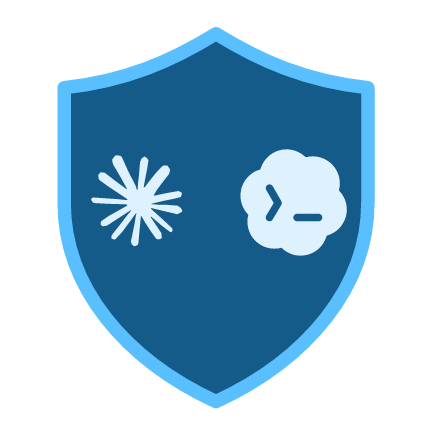
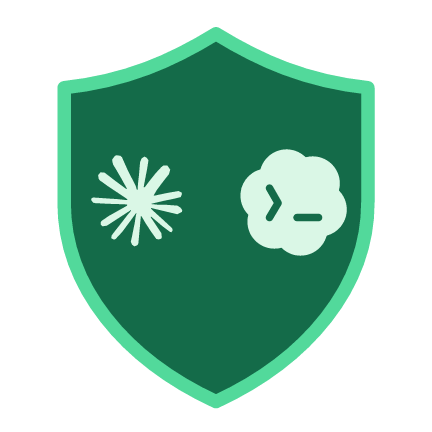
style: use the selected green shield palette [skip ci]

diff --git a/test/tool/generate_app_icon_test.dart b/test/tool/generate_app_icon_test.dart
@@ -77,7 +77,7 @@ Future<void> main() async {
       expect(source, isNot(contains('linearGradient')));
       expect(
         RegExp(r'#[0-9a-fA-F]{6}').allMatches(source).map((m) => m.group(0)),
-        everyElement(isIn(['#155B8A', '#59BFFF', '#DDF1FF', '#0B0B0B'])),
+        everyElement(isIn(['#146B49', '#52D99B', '#DAF7E6', '#0B0B0B'])),
       );
     }
     final layeredImage = jsonDecode(
